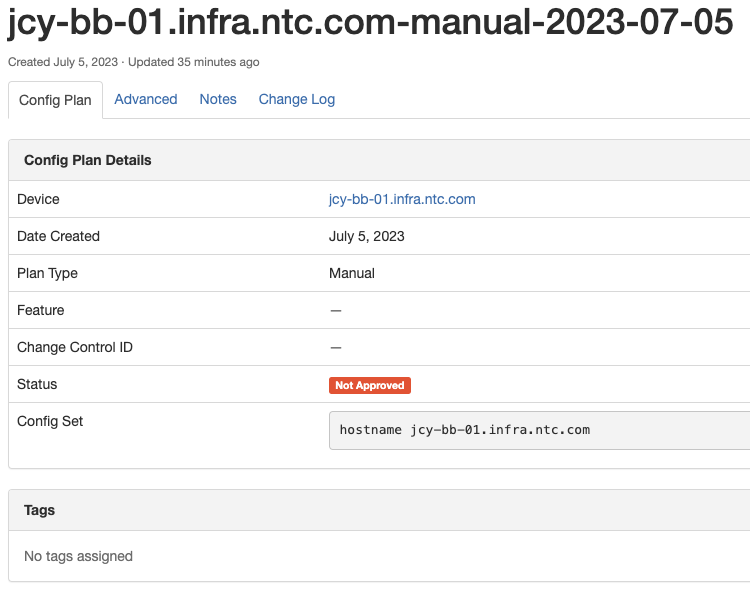
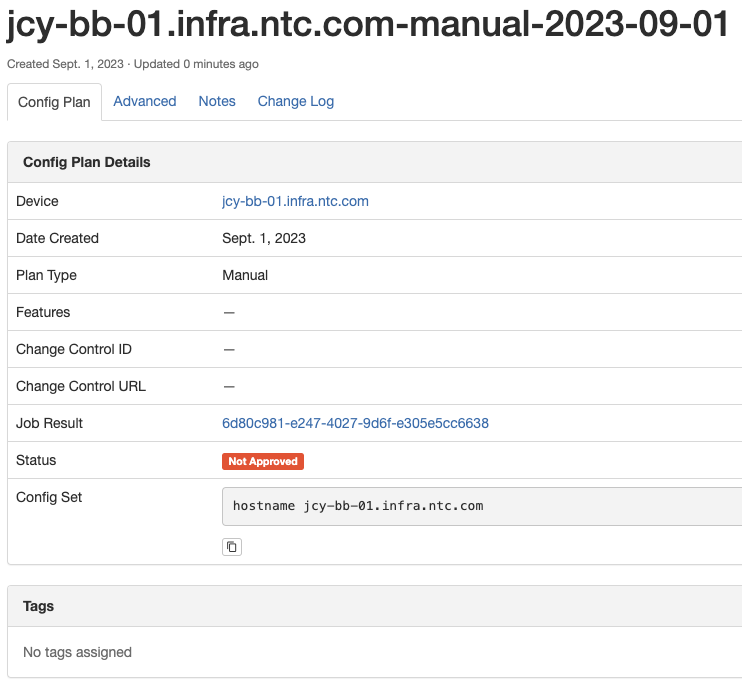
Fixes screenshots and fixes title for config plan edit view (#561)
* Replaces screenshots with new form fields

* Removes copy pasta title

diff --git a/nautobot_golden_config/templates/nautobot_golden_config/configplan_update.html b/nautobot_golden_config/templates/nautobot_golden_config/configplan_update.html
@@ -3,8 +3,6 @@
 {% load helpers %}
 {% load static %}
 
-{% block title %}Generate Config Plans{% endblock %}
-
 {% block form %}
   <div class="panel panel-default">
   <div class="panel-heading"><strong>Plan Details</strong></div>
